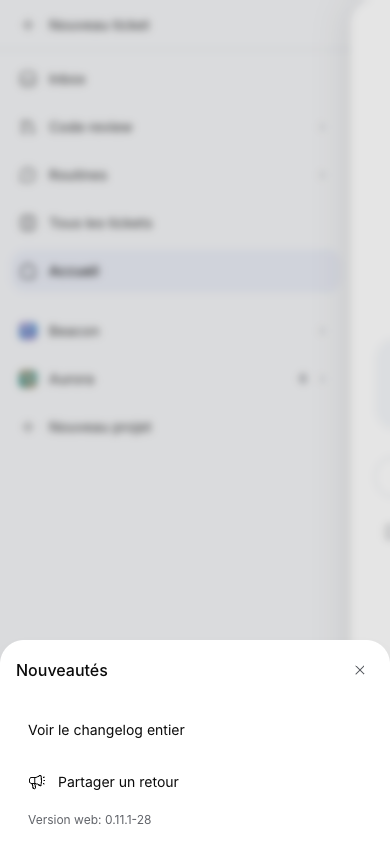
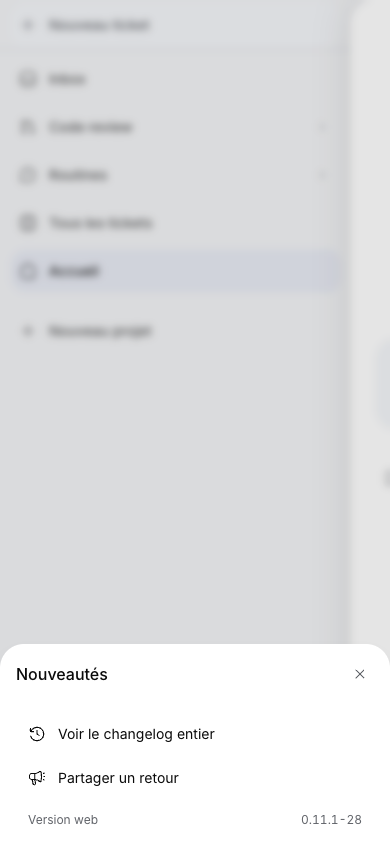
fix: align changelog sheet actions with account menus

diff --git a/components/app-sidebar.tsx b/components/app-sidebar.tsx
@@ -1,7 +1,7 @@
 "use client";
 
 import { HugeiconsIcon } from "@hugeicons/react";
-import { ArrowDown01Icon, ArrowLeft01Icon, ArrowRight01Icon, ArrowUpRight01Icon, Analytics01Icon, CreditCardIcon, Delete02Icon, HelpCircleIcon, Home01Icon, LogOutIcon, Megaphone01Icon, Settings01Icon, Shield01Icon, CheckIcon } from "@hugeicons/core-free-icons";
+import { ArrowDown01Icon, ArrowLeft01Icon, ArrowRight01Icon, ArrowUpRight01Icon, Analytics01Icon, CreditCardIcon, Delete02Icon, HelpCircleIcon, HistoryIcon, Home01Icon, LogOutIcon, Megaphone01Icon, Settings01Icon, Shield01Icon, CheckIcon } from "@hugeicons/core-free-icons";
 import { AppIcon } from "@/components/icon";
 import { useMobileAccountIdentity } from "@/components/mobile-account";
 import { Dialog, DialogContent, DialogTitle, DialogFooter } from "@/components/ui/dialog";
@@ -775,15 +775,28 @@ function ChangelogButton({
     <Dialog open={menuOpen} onOpenChange={handleMenuOpenChange}>
       <DialogContent aria-describedby={undefined}>
         <DialogTitle>{t("whatsNew")}</DialogTitle>
-        <MobileSheetScrollArea className="space-y-2">
-          <button type="button" className="flex min-h-11 w-full items-center rounded-lg px-3 text-left text-sm hover:bg-muted" onClick={() => { handleMenuOpenChange(false); setDialogMounted(true); setDialogOpen(true); }}>{t("viewFullChangelog")}</button>
+        <MobileSheetScrollArea>
+          <button
+            type="button"
+            className="flex min-h-11 w-full items-center gap-3 rounded-lg px-3 text-left text-sm hover:bg-muted"
+            onClick={() => {
+              handleMenuOpenChange(false);
+              setDialogMounted(true);
+              setDialogOpen(true);
+            }}
+          >
+            <AppIcon icon={HistoryIcon} className="size-[18px] shrink-0" />
+            <span className="min-w-0 truncate">{t("viewFullChangelog")}</span>
+          </button>
           {(productFeedbackIntegrationEnabled || productFeedbackUrl) && <button type="button" className="flex min-h-11 w-full items-center gap-3 rounded-lg px-3 text-left text-sm hover:bg-muted" onClick={() => {
             handleMenuOpenChange(false);
             if (productFeedbackIntegrationEnabled) { setFeedbackDialogMounted(true); setFeedbackDialogOpen(true); }
             else if (productFeedbackUrl) window.open(productFeedbackUrl, "_blank", "noopener,noreferrer");
-          }}><AppIcon icon={Megaphone01Icon} className="size-[18px]" />{t("shareFeedback")}</button>}
-          <p className="px-3 text-xs text-muted-foreground">{t("webVersion")}: {APP_VERSION}</p>
-          {desktopVersion && <p className="px-3 text-xs text-muted-foreground">{t("appVersion")}: {desktopVersion}</p>}
+          }}><AppIcon icon={Megaphone01Icon} className="size-[18px] shrink-0" /><span className="min-w-0 truncate">{t("shareFeedback")}</span></button>}
+          <div className="space-y-2 px-3 pt-3 text-xs text-muted-foreground">
+            <p className="flex items-center justify-between gap-3"><span>{t("webVersion")}</span><span className="shrink-0 tabular-nums">{APP_VERSION}</span></p>
+            {desktopVersion && <p className="flex items-center justify-between gap-3"><span>{t("appVersion")}</span><span className="shrink-0 tabular-nums">{desktopVersion}</span></p>}
+          </div>
         </MobileSheetScrollArea>
       </DialogContent>
     </Dialog>
@@ -810,8 +823,9 @@ function ChangelogButton({
               setDialogMounted(true);
               setDialogOpen(true);
             }}
-            className="h-8 gap-1.5 px-2.5 py-0 max-[1199px]:py-0"
+            className="py-1.5 max-[1199px]:py-1.5"
           >
+            <HugeiconsIcon icon={HistoryIcon} className="size-4 shrink-0 text-muted-foreground" />
             <span className="min-w-0 flex-1 truncate">
               {t("viewFullChangelog")}
             </span>

diff --git a/docs/audits/mobile-2026-10-07.md b/docs/audits/mobile-2026-10-07.md
@@ -511,3 +511,13 @@ scoped TypeScript, owned-English and diff checks passed.
 ![Settings content without a duplicate header](images/min-636/settings-content.png)
 
 ![Mobile PR changes without a back-to-top button](images/min-636/pull-request-changes.png)
+
+The help sheet's full-changelog action now carries a Hugeicons history glyph.
+Both action rows share the account sheet's 44px height, 18px icon column and
+12px icon-to-label gap, without additional spacing between rows. Version details
+sit in a quiet label/value footer without a separator. The desktop changelog
+entry also keeps the icon and matches its adjacent feedback row.
+Chromium confirmed matching icon/label alignment, 44px targets, no separators
+or horizontal overflow at 320, 390 and 767px, and working changelog actions on
+mobile and desktop. The updated help screenshot reflects this layout; lint,
+scoped TypeScript, owned-English and diff checks passed.
